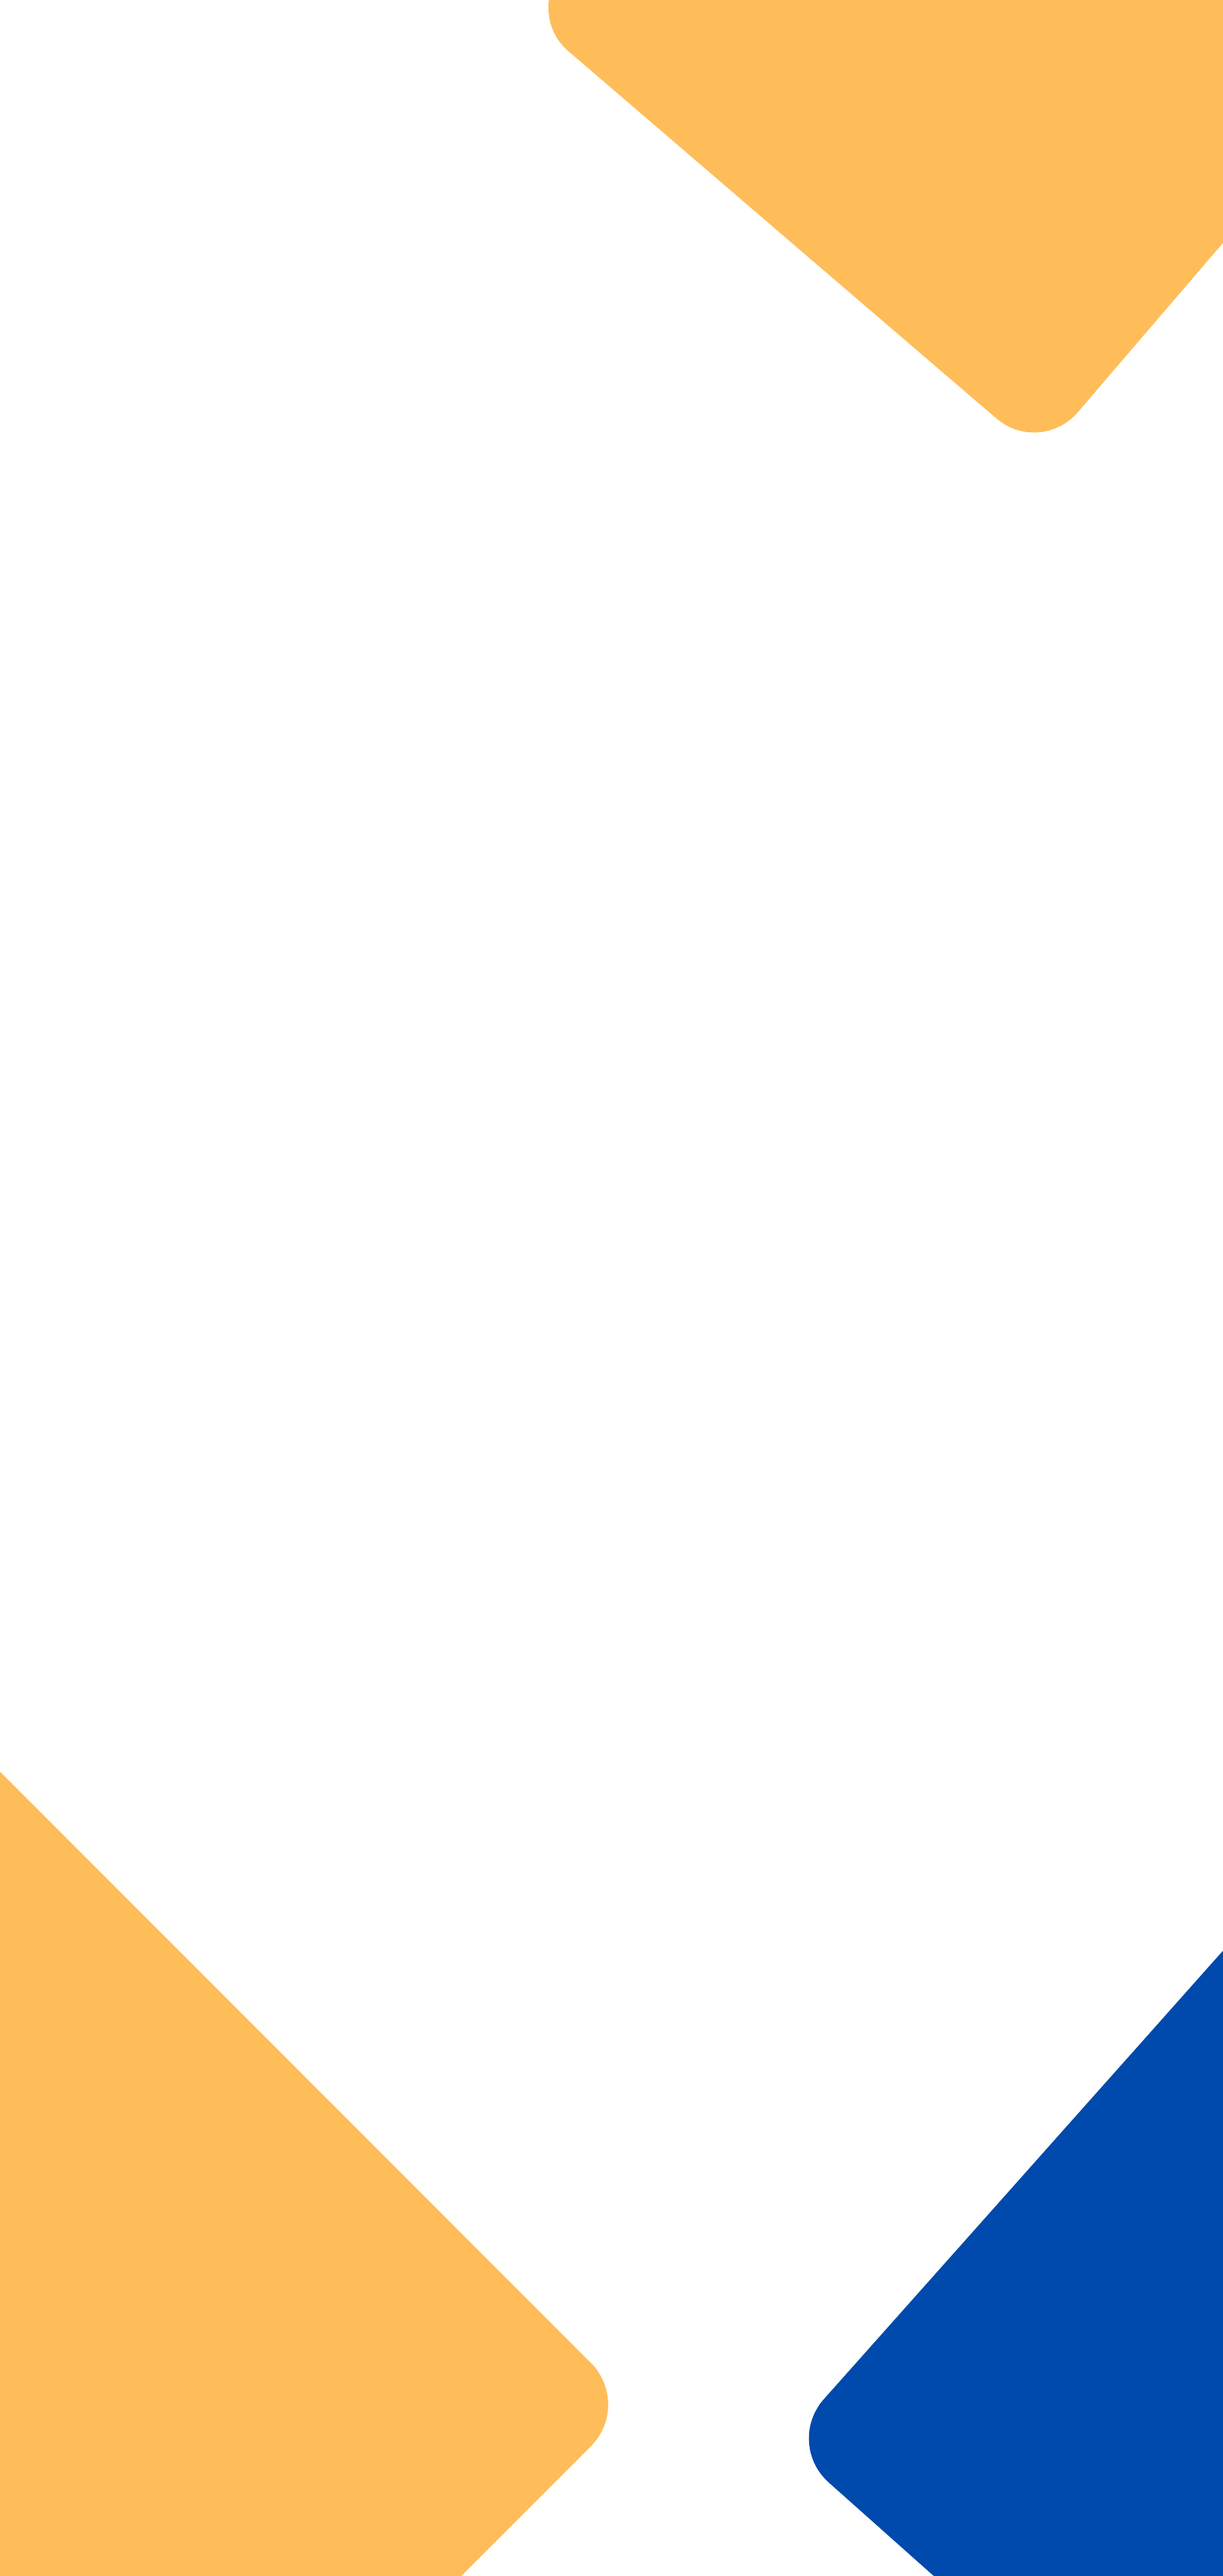
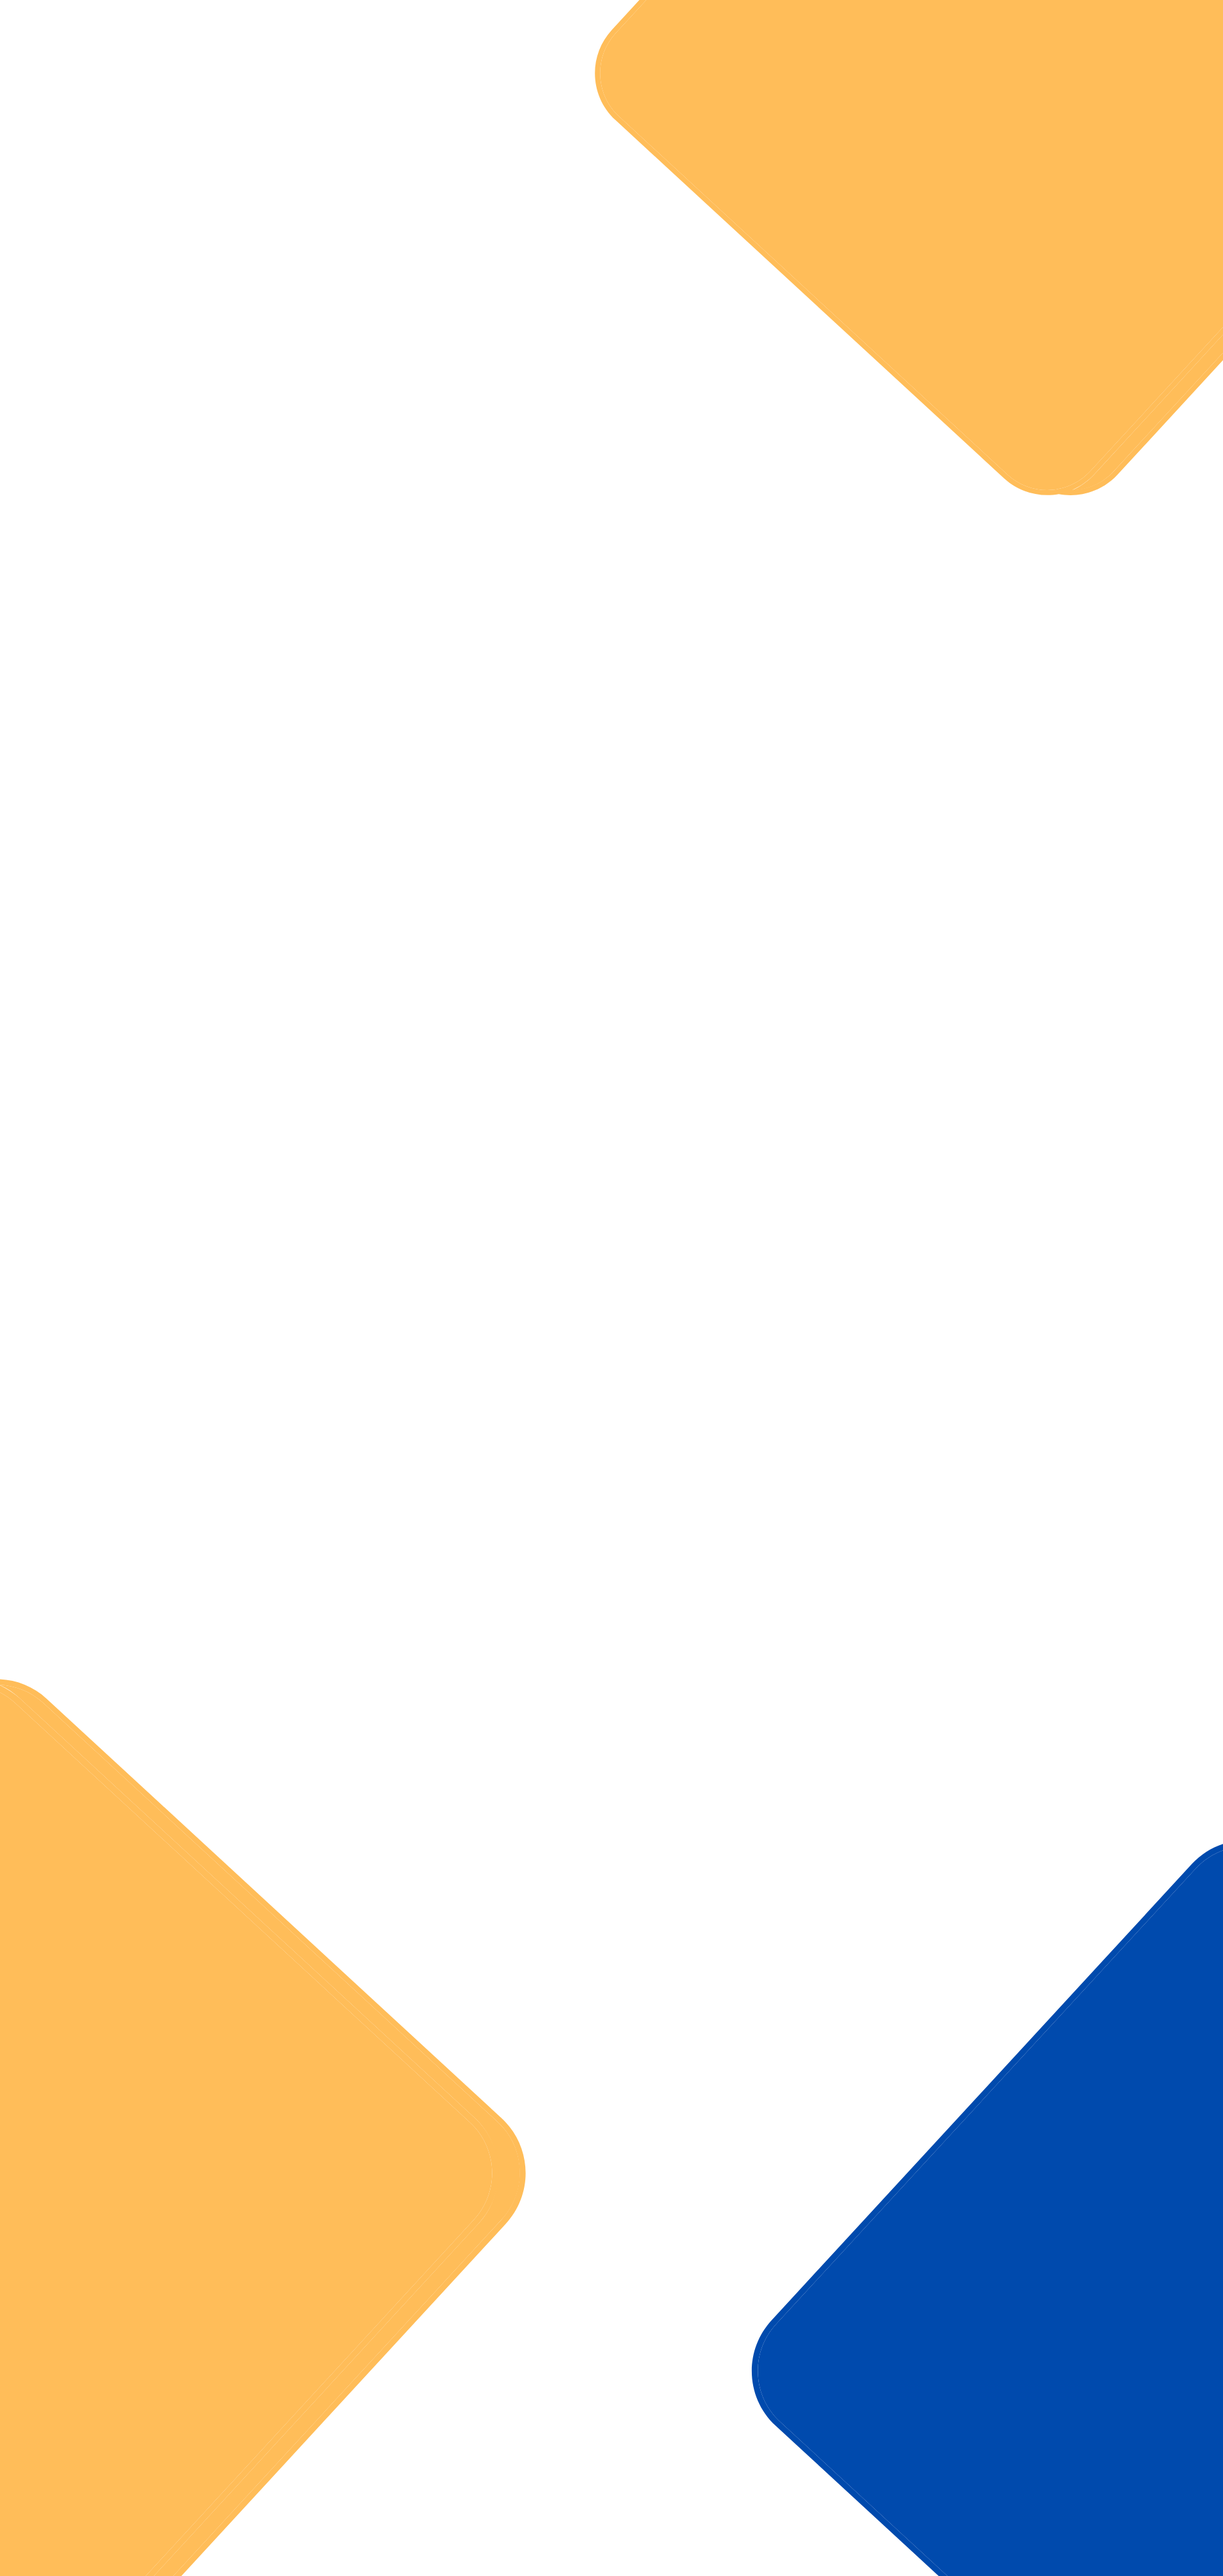
New channges today

diff --git a/lib/chatbot/start.dart b/lib/chatbot/start.dart
@@ -1,11 +1,11 @@
 import 'package:bubble/bubble.dart';
-import 'package:ease_the_error/chatbot/classes.dart';
 import 'package:ease_the_error/chatbot/cleanliness.dart';
 import 'package:ease_the_error/chatbot/lost_found.dart';
 import 'package:ease_the_error/chatbot/welcome.dart';
 import 'package:firebase_auth/firebase_auth.dart';
 import 'package:flutter/material.dart';
 import 'package:google_fonts/google_fonts.dart';
+import 'package:url_launcher/url_launcher.dart';
 import 'package:webview_flutter/webview_flutter.dart';
 
 import 'botcommands.dart';
@@ -47,156 +47,24 @@ class _MyChatState extends State<MyChat> {
 
   void response(query) {
     addQueries();
-    var msg, i, ind;
-    if (query.startsWith("!lost") && query.split(',').length == 3) {
-      List lostData = query.substring(6).split(',');
-      lostitems.add(Item(lostData[0], lostData[1], lostData[2]));
-      for (i = 0; i < coordinators.length; ++i) {
-        if (coordinators[i].place.toString().toLowerCase() ==
-            lostData[2].toString().toLowerCase()) {
-          ind = i;
-          break;
-        }
-      }
-      if (!checkFounditems(lostitems.last)) {
-        msg = "Details Noted. Please convey this to";
-        setState(() {
-          messsages.insert(0, {
-            "data": 0,
-            "message":
-                "$msg Co-ordinator: ${coordinators[ind].name},Phone: ${coordinators[ind].phone_number},Place: ${coordinators[ind].place}"
-          });
-        });
-      } else {
-        msg = "An item similar to yours is found. Contact,";
-        setState(() {
-          messsages.insert(0, {
-            "data": 0,
-            "message":
-                "$msg Co-ordinator: ${coordinators[i].name},Phone: ${coordinators[i].phone_number}, Place: ${coordinators[i].place}, for more details."
-          });
-        });
-        lostitems.removeLast();
-      }
-    } else if (query.startsWith('!commands') || query.contains('command')) {
+
+    if (query.startsWith('!commands') || query.contains('command')) {
       setState(() {
         messsages.insert(0, {
           "data": 0,
           "message": commands,
         });
       });
-    } else if (query.startsWith("!found") && query.split(',').length == 3) {
-      List foundData = query.substring(7).split(',');
-      var item = Item(foundData[0], foundData[1], foundData[2]);
-      for (i = 0; i < coordinators.length; ++i) {
-        if (coordinators[i].place == foundData[2]) {
-          ind = i;
-          break;
-        }
-      }
-      addFounditem(item);
-      msg = "Details noted. Please contact";
-      setState(() {
-        messsages.insert(0, {
-          "data": 0,
-          "message":
-              "$msg Co-ordinator: ${coordinators[i].name},Phone: ${coordinators[i].phone_number}, Place: ${coordinators[i].place},and convey this."
-        });
-      });
-    } else if (query.startsWith("!cleanliness") &&
-        query.split(',').length == 2) {
-      List cleanData = query.substring(13).split(',');
-      for (i = 0; i < cleanliness_coordinators.length; ++i) {
-        if (cleanliness_coordinators[i].place.toString().toLowerCase() ==
-            cleanData[0].toString().toLowerCase()) {
-          ind = i;
-          break;
-        }
-      }
-      addSanitationReport(cleanData);
-      msg = "Sanitation Report Noted. Please contact";
-      setState(() {
-        messsages.insert(0, {
-          "data": 0,
-          "message":
-              "$msg Co-ordinator: ${cleanliness_coordinators[i].name},Phone: ${cleanliness_coordinators[i].phone_number}, Location: ${cleanliness_coordinators[i].place},and convey this."
-        });
-      });
-    } else if (query.startsWith("!item_returned") &&
-        query.split(',').length == 3) {
-      List retData = query.substring(15).split(',');
-      var item = Item(retData[0], retData[1], retData[2]);
-      if (updateFounditem(item)) {
-        setState(() {
-          messsages.insert(0, {"data": 0, "message": "Status Updated !"});
-        });
-      } else {
-        setState(() {
-          messsages.insert(0, {
-            "data": 0,
-            "message": "The Given item is not found in the Founditems list !!"
-          });
-        });
-      }
-    } else if (query == "!lost_items") {
-      var items = viewLostitems(), v;
-      for (var i = 0; i < items.length; ++i) {
-        v = items[i].split(",");
-
-        setState(() {
-          messsages.insert(0, {
-            "data": 0,
-            "message":
-                "ITEM ID: ${i + 1}., ITEM NAME: ${v[0]}, ITEM DESCRIPTION: ${v[1]}, PLACE WHERE IT IS LOST: ${v[2]}"
-          });
-        });
-      }
-    } else if (query == "!found_items") {
-      var items = viewFounditems(), v;
-      for (var i = 0; i < items.length; ++i) {
-        v = items[i].split(",");
-        setState(() {
-          messsages.insert(0, {
-            "data": 0,
-            "message":
-                "ITEM ID: ${i + 1}., ITEM NAME: ${v[0]}, ITEM DESCRIPTION: ${v[1]}, PLACE WHERE IT IS FOUND: ${v[2]}"
-          });
-        });
-      }
     } else if (query == "!map" || query.contains('map')) {
-      Navigator.push(
-          context,
-          MaterialPageRoute(
-              builder: (context) => SizedBox.fromSize(
-                    size: Size(100, 1000),
-                    child: WebView(
-                      initialUrl: "https://goo.gl/maps/JTt8tjqgtK4q6dAH9",
-                      javascriptMode: JavascriptMode.unrestricted,
-                    ),
-                  )));
+      _launchURL("https://goo.gl/maps/JTt8tjqgtK4q6dAH9");
     } else if (query == "!admission" || query.contains('admission')) {
-      Navigator.push(
-          context,
-          MaterialPageRoute(
-              builder: (context) => SizedBox.fromSize(
-                    size: Size(100, 1000),
-                    child: WebView(
-                      initialUrl:
-                          "https://www.svce.ac.in/admission/programs-offered/",
-                      javascriptMode: JavascriptMode.unrestricted,
-                    ),
-                  )));
-    } else if (query == "!events" || query.contains('events')) {
-      Navigator.push(
-          context,
-          MaterialPageRoute(
-              builder: (context) => SizedBox.fromSize(
-                    size: Size(100, 1000),
-                    child: WebView(
-                      initialUrl: "https://www.svce.ac.in/flashnews/",
-                      javascriptMode: JavascriptMode.unrestricted,
-                    ),
-                  )));
+      _launchURL("https://www.svce.ac.in/admission/programs-offered/");
+    } else if (query == "!events" ||
+        query.contains('events') ||
+        query.contains('news')) {
+
+      _launchURL( "https://www.svce.ac.in/flashnews/");
+
     } else {
       String response = getResopnse(query);
       setState(() {
@@ -405,5 +273,13 @@ class _MyChatState extends State<MyChat> {
         ],
       ),
     );
+  }
+  _launchURL(String place) async {
+    var url = place;
+    if (await canLaunch(url)) {
+      await launch(url);
+    } else {
+      throw 'Could not launch $url';
+    }
   }
 }

diff --git a/lib/navbar_pages/home.dart b/lib/navbar_pages/home.dart
@@ -179,11 +179,11 @@ class _HomeState extends State<Home> {
                   children: [
                     InkWell(
                       onTap: () {
-                        _launchURL('https://www.svce.ac.in/');
+                        _launchURL('https://www.svce.ac.in/flashnews/');
                       },
                       child: ListTile(
                         title: Text(
-                          'Events',
+                          'Flash Events',
                           style: GoogleFonts.montserrat(
                             color: Colors.white,
                           ),
@@ -260,20 +260,8 @@ class _HomeState extends State<Home> {
                     ),
                     InkWell(
                       onTap: () {
-                        Navigator.push(
-                            context,
-                            MaterialPageRoute(
-                              builder: (context) => SafeArea(
-                                child: SizedBox.fromSize(
-                                    size: Size(100, 1000),
-                                    child: WebView(
-                                      initialUrl:
-                                          'https://www.svce.ac.in/contact-us/',
-                                      javascriptMode:
-                                          JavascriptMode.unrestricted,
-                                    )),
-                              ),
-                            ));
+
+                        _launchURL('https://www.svce.ac.in/flashnews/');
                       },
                       child: ListTile(
                         title: Text(
@@ -415,7 +403,7 @@ class _HomeState extends State<Home> {
           decoration: BoxDecoration(
             image: DecorationImage(
               fit: BoxFit.cover,
-              image: AssetImage('assets/home_bg.png'),
+              image: AssetImage("assets/activites_bg.png"),
             ),
           ),
           child: SingleChildScrollView(
@@ -570,7 +558,7 @@ class _HomeState extends State<Home> {
                         width: MediaQuery.of(context).size.width * 0.8,
                         child: Text(
                           'Quality Policy',
-                          textAlign : TextAlign.center,
+                          textAlign: TextAlign.center,
                           style: GoogleFonts.montserrat(
                             color: Colors.black,
                             fontSize: 35,

diff --git a/lib/chatbot/welcome.dart b/lib/chatbot/welcome.dart
@@ -1,13 +1,13 @@
 import 'package:firebase_auth/firebase_auth.dart';
 
 String commands = """
-!lost itemName,itemDescription,place: Used when user lost one of his\/her belongings.
-!found itemName,itemDescription,place: Used to intimate the info regarding any lost object.
-!cleanliness place,cleanliness_Status: Used to intimate the tidiness report of a particular block\/classroom.
-!map: Used to locate Sri Venkateswara College of Engineering, Sriperumbudur.
-!events: Used to know about any current events on that day.
-!date: Returns the date of the day.
-!time: Returns the time.
+
+!map      : Used to locate Sri Venkateswara College of Engineering, Sriperumbudur.\n
+!events   : Used to know about any current events on that day.\n
+!admission: Used to get admission details.\n
+!date     : Returns the date of the day.\n
+!time     : Returns the time.\n
+
 """;
 
 List welcomeMsg() {

diff --git a/lib/chatbot/botcommands.dart b/lib/chatbot/botcommands.dart
@@ -81,7 +81,11 @@ String gettime() {
     time += hour.toString();
 
   time += ':';
-  if (minute < 10) time += '0' + minute.toString();
-  print(time);
-  return time + minute.toString() + "  " + period;
+  String minites = "";
+  if (minute < 10)
+    minites = "0" + minute.toString();
+  else
+    minites = minute.toString();
+
+  return time + minites.toString() + "  " + period;
 }

diff --git a/lib/main.dart b/lib/main.dart
@@ -19,10 +19,6 @@ class MyApp extends StatelessWidget {
     return MaterialApp(
       debugShowCheckedModeBanner: false,
       title: 'SVCE Mobile',
-      darkTheme: ThemeData(
-        primarySwatch: Colors.orange,
-        accentColor: Colors.amber,
-      ),
       home: HomePage(),
     );
   }
